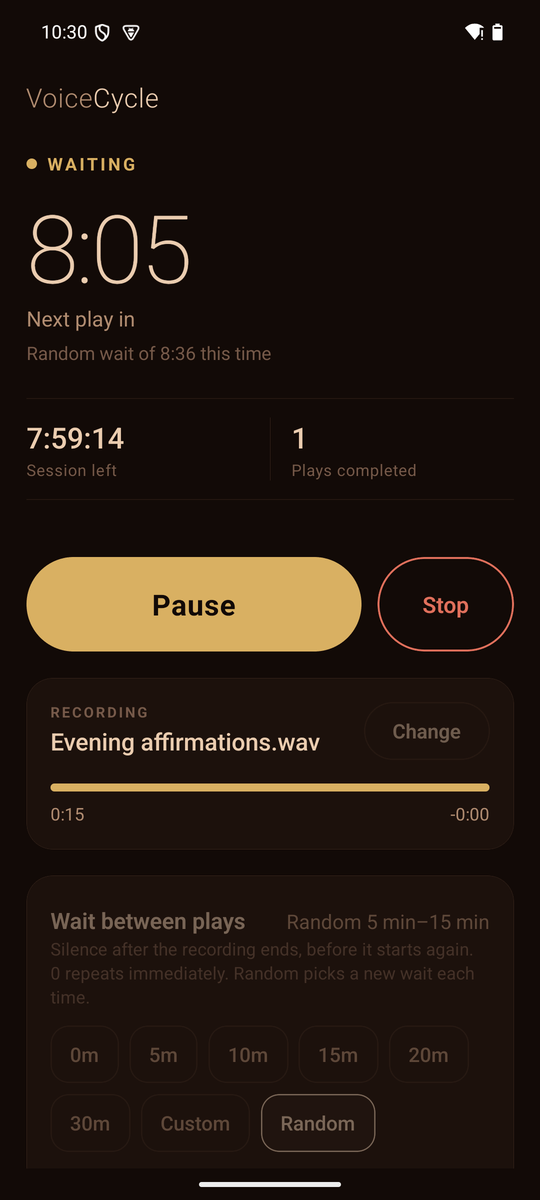
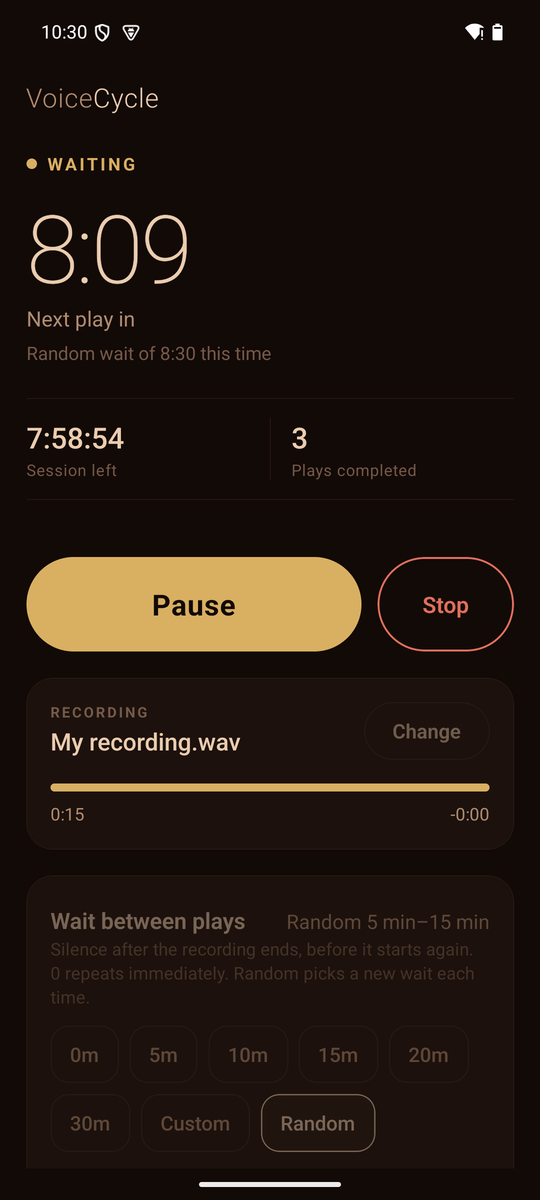
docs: neutral product wording and refreshed screenshots
- Remove overnight, night and sleep framing from README, docs, changelog,
  templates, workflow text, package metadata and code comments.
- Recapture screenshots with a neutral recording name and regenerate the
  social preview without the 'All night' tagline.

diff --git a/src/domain/report.ts b/src/domain/report.ts
@@ -8,8 +8,8 @@ const clockTime = (epochMs: number): string => {
 };
 
 /**
- * One-line summary of the previous session, so the user can check in the morning
- * whether it ran through the night. Null when there is nothing worth showing.
+ * One-line summary of the previous session, so the user can check whether it
+ * ran to the end. Null when there is nothing worth showing.
  */
 export function describeReport(report: SessionReport | null): { tone: 'info' | 'warning' | 'error'; text: string } | null {
   if (!report || report.status === 'running') return null;

diff --git a/modules/voicecycle-player/android/src/main/java/expo/modules/voicecycleplayer/VoiceCyclePlayerModule.kt b/modules/voicecycle-player/android/src/main/java/expo/modules/voicecycleplayer/VoiceCyclePlayerModule.kt
@@ -55,7 +55,7 @@ class VoiceCyclePlayerModule : Module() {
     OnStopObserving(SNAPSHOT_EVENT) { CycleStore.removeListener(listener) }
     OnDestroy { CycleStore.removeListener(listener) }
 
-    // The service ticks every second only while the UI is visible, saving battery overnight.
+    // The service ticks every second only while the UI is visible, saving battery during long sessions.
     OnActivityEntersForeground { setUiVisible(true) }
     OnActivityEntersBackground { setUiVisible(false) }
     OnActivityDestroys { setUiVisible(false) }

diff --git a/src/theme/themes.ts b/src/theme/themes.ts
@@ -23,8 +23,8 @@ export type Theme = {
 };
 
 /**
- * Three night palettes. Every one keeps body text at a comfortable contrast
- * without pure white, and Ember drops nearly all blue light for bedtime use.
+ * Three dark palettes. Every one keeps body text at a comfortable contrast
+ * without pure white. Ember is a warm, low-blue variant.
  */
 export const THEMES: Record<ThemeId, Theme> = {
   dusk: {

diff --git a/README.md b/README.md
@@ -4,9 +4,9 @@
 
 # VoiceCycle
 
-**Play. Wait. Repeat. All night.**
+**Play. Wait. Repeat.**
 
-An offline Android app that plays your own recording, waits, and plays it again for hours, even with the screen locked.
+An offline Android app that plays your own recording, waits, and plays it again, even with the screen locked.
 
 [![Android 7.0+](https://img.shields.io/badge/Android-7.0%2B-3DDC84?logo=android&logoColor=white)](#install)
 [![Expo SDK 57](https://img.shields.io/badge/Expo%20SDK-57-000020?logo=expo&logoColor=white)](https://docs.expo.dev/)
@@ -21,14 +21,14 @@ An offline Android app that plays your own recording, waits, and plays it again 
   <img src="docs/images/screen-playing.png" width="200" alt="Playing a recording" />
   <img src="docs/images/screen-waiting.png" width="200" alt="Random wait countdown" />
   <img src="docs/images/screen-settings.png" width="200" alt="Wait, plays in a row and session settings" />
-  <img src="docs/images/screen-ember.png" width="200" alt="Ember night theme" />
+  <img src="docs/images/screen-ember.png" width="200" alt="Ember theme" />
 </p>
 
 ## Why VoiceCycle
 
-You have a recording you want to hear again and again: affirmations, a language lesson, a lecture, a breathing exercise. Music players can loop it, but they can't leave a pause between plays. A JavaScript timer can, until Android puts the app to sleep and the next play never comes.
+You have a recording you want to hear again and again: a language lesson, a lecture, a practice drill, a breathing exercise. Music players can loop it, but they can't leave a pause between plays. A JavaScript timer can, until Android suspends the app in the background and the next play never comes.
 
-VoiceCycle runs the whole cycle in a native Android media service. It keeps its own clock, so the next play starts on time after a silent wait of minutes or hours, with the screen off and the phone in Doze.
+VoiceCycle runs the whole cycle in a native Android media service. It keeps its own clock, so the next play starts on time after a silent wait, with the screen off and the phone in Doze.
 
 ## Features
 
@@ -39,24 +39,24 @@ VoiceCycle runs the whole cycle in a native Android media service. It keeps its 
 - **Works with the screen locked.** Verified with the screen off and Android Doze forced on.
 - **Lock-screen controls.** Pause, resume and stop from the notification or lock screen. The notification counts down to the next play.
 - **Polite with calls and other apps.** Pauses for a phone call and resumes after it. Pauses when another app starts music or headphones are unplugged.
-- **Morning report.** Next morning the app tells you whether the session finished, and how many times the recording played.
-- **Made for the dark.** Three night themes: Dusk, Black for OLED screens, and Ember with almost no blue light.
+- **Session report.** When you come back, the app tells you whether the last session finished, and how many times the recording played.
+- **Dark themes.** Dusk, Black for OLED screens, and warm Ember.
 - **Remembers everything.** Your recording and settings are still there next time.
 - **Completely offline.** No account, no ads, no analytics, no network access.
 
-## How a night looks
+## How a session looks
 
-With a 12-minute recording, a random wait of 5–15 minutes, 1–3 plays in a row, and an 8-hour session:
+With a 12-minute recording, a random wait of 5–15 minutes, 1–3 plays in a row, and a 2-hour session:
 
 ```
-22:30  ▶ play 1 of 2
-22:42  ▶ play 2 of 2
-22:54  · wait 8:36 (random)
-23:03  ▶ play 1 of 1
-23:15  · wait 13:02 (random)
-23:28  ▶ play 1 of 3
-  ...
-06:30  ■ session time is up, fade out
+0:00  ▶ play 1 of 2
+0:12  ▶ play 2 of 2
+0:24  · wait 8:36 (random)
+0:33  ▶ play 1 of 1
+0:45  · wait 13:02 (random)
+0:58  ▶ play 1 of 3
+ ...
+2:00  ■ session time is up, fade out
 ```
 
 ## Install
@@ -76,7 +76,7 @@ Requires Android 7.0 or newer.
 4. Choose **Session length**.
 5. Tap **Start** and lock your phone.
 
-> **First night tip:** try a 2-hour session first and check the morning report. Then follow the battery settings below if your phone needs them.
+> **Tip:** start with a short session and check the session report afterwards. If it says the session was cut off, follow the battery settings below.
 
 ## Settings
 
@@ -85,18 +85,18 @@ Requires Android 7.0 or newer.
 | Wait between plays | 0, 5, 10, 15, 20, 30 min · Custom 0–240 min · Random min–max | Starts when the recording **ends**. Decimals allowed, so `0.5` is 30 seconds. 0 repeats immediately |
 | Plays in a row | 1×, 2×, 3× · Custom 1–50 · Random min–max | Random draws a new count for every round |
 | Session length | 1, 2, 4, 6, 8 h · Custom 1–1440 min | The app shows roughly how many plays fit |
-| Theme | Dusk, Black, Ember | Black suits OLED screens. Ember is warm and low in blue light |
+| Theme | Dusk, Black, Ember | Black suits OLED screens. Ember is a warm palette |
 
 **Pause** freezes everything: the recording, the wait countdown and the session timer. Settings are locked while a session runs and apply to the next one.
 
-## Overnight reliability
+## Background playback
 
-VoiceCycle does not ask for a battery-optimisation exemption. A foreground media service is normally enough. Some phone brands still close background apps. If the morning report says a session was **cut off**:
+VoiceCycle does not ask for a battery-optimisation exemption. A foreground media service is normally enough. Some phone brands still close background apps. If the session report says a session was **cut off**:
 
 1. Open **Settings > Apps > VoiceCycle > Battery** and choose **Unrestricted** (also called "Don't optimise" or "No restrictions").
 2. **Samsung:** remove VoiceCycle from *Sleeping apps* and *Deep sleeping apps* under Battery > Background usage limits.
 3. **Xiaomi, Oppo, Vivo, Huawei, OnePlus:** also allow *Autostart* and lock the app in Recents. See [dontkillmyapp.com](https://dontkillmyapp.com) for your model.
-4. Keep the phone charging overnight if you can. Battery Saver may restrict background work.
+4. Battery Saver may restrict background work. Charging the phone during long sessions helps.
 
 | Situation | What happens |
 |---|---|
@@ -131,7 +131,7 @@ npm run typecheck
 npm run lint
 ```
 
-CI runs all of them on every push. [docs/TESTING.md](docs/TESTING.md) has the emulator results, a 19-step manual test plan and an overnight checklist for real phones.
+CI runs all of them on every push. [docs/TESTING.md](docs/TESTING.md) has the emulator results, a 19-step manual test plan and a checklist for long sessions on real phones.
 
 ## How it works
 
@@ -143,7 +143,7 @@ flowchart LR
   Service -- "snapshots" --> UI
 ```
 
-The native service owns playback, the wait and the session timer. The interface only shows what the service reports, so reopening the app can never start a second session. [docs/ARCHITECTURE.md](docs/ARCHITECTURE.md) explains the design, the state machine and why simpler approaches fail overnight.
+The native service owns playback, the wait and the session timer. The interface only shows what the service reports, so reopening the app can never start a second session. [docs/ARCHITECTURE.md](docs/ARCHITECTURE.md) explains the design, the state machine and why simpler approaches fail in the background.
 
 ## Roadmap
 
@@ -156,7 +156,7 @@ iOS is not supported. The playback engine is Android-only.
 
 ## Contributing
 
-Bug reports from real phones help most, especially overnight results. Please read [CONTRIBUTING.md](CONTRIBUTING.md) and use the issue templates. Changes are listed in [CHANGELOG.md](CHANGELOG.md).
+Bug reports from real phones help most, especially from long sessions. Please read [CONTRIBUTING.md](CONTRIBUTING.md) and use the issue templates. Changes are listed in [CHANGELOG.md](CHANGELOG.md).
 
 ## License
 

diff --git a/docs/TESTING.md b/docs/TESTING.md
@@ -32,7 +32,7 @@ These were run on an Android 15 emulator with a 15-second test recording. Doze w
 | Force-kill during a session | Next launch reports the session was cut off after 1 play |
 | Cold restart | Recording and all settings restored |
 
-An emulator does not prove overnight reliability on a real phone. Use the checklist at the end of this page.
+An emulator does not prove long-session reliability on a real phone. Use the checklist at the end of this page.
 
 ## Manual test procedure
 
@@ -60,14 +60,14 @@ Use a short recording (20 to 60 seconds) and short settings so each test takes m
 | 18 | Plays in a row | Plays in a row 3, wait 0.25 | The recording plays 3 times back to back, then waits 15 seconds. Status shows "Play 2 of 3 in this round" |
 | 19 | Random plays in a row | Plays in a row Random, 1 to 3 | Rounds of 1, 2 or 3 plays in varying order |
 
-## Overnight checklist (physical phone)
+## Long-session checklist (physical phone)
 
-Before relying on VoiceCycle for a full night:
+Before relying on VoiceCycle for long sessions:
 
 - [ ] Install the **release** APK, not the development build.
 - [ ] Allow notifications when asked.
 - [ ] Apply the battery settings from the README for your phone brand.
-- [ ] First night: a 2-hour session with your real recording and settings, phone locked and unplugged.
-- [ ] In the morning, open the app. The note under the status says whether the last session finished, and after how many plays. Compare it with the estimate under Session length.
-- [ ] Repeat with the phone charging, and with Battery Saver on if you use it at night.
-- [ ] Only then rely on a full 8-hour session.
+- [ ] Run a 2-hour session with your real recording and settings, phone locked and unplugged.
+- [ ] Afterwards, open the app. The note under the status says whether the last session finished, and after how many plays. Compare it with the estimate under Session length.
+- [ ] Repeat with the phone charging, and with Battery Saver on if you normally use it.
+- [ ] Only then rely on sessions of several hours.

diff --git a/docs/ARCHITECTURE.md b/docs/ARCHITECTURE.md
@@ -113,7 +113,7 @@ Rules:
 | Phone restarts | The session ends and is not resumed |
 | Recording file missing (app data cleared) | The app asks you to select the recording again |
 
-Automatic recovery after a kill or reboot is deliberately not implemented. Audio starting by itself in the middle of the night would be surprising, and the behaviour could not be tested reliably across phone brands.
+Automatic recovery after a kill or reboot is deliberately not implemented. Audio starting by itself without user action would be surprising, and the behaviour could not be tested reliably across phone brands.
 
 ## Data and privacy
 
@@ -131,7 +131,7 @@ src/components/                 Presentational UI pieces
 src/hooks/                      usePlayer (native state), useSettings (persistence)
 src/domain/                     Pure logic: time, settings validation, display text, reports
 src/services/                   AsyncStorage settings, recording import
-src/theme/                      Night colour themes
+src/theme/                      Colour themes
 modules/voicecycle-player/      Local Expo module with the native Android player
 plugins/withReleaseSigning.js   Optional release signing from Gradle properties
 docs/                           Architecture, building and testing guides

diff --git a/CHANGELOG.md b/CHANGELOG.md
@@ -16,8 +16,8 @@ First public release.
 - Pause and resume that freeze the recording, the wait countdown and the session timer.
 - Lock-screen and notification controls, with a live countdown during the wait.
 - Automatic pause for calls, other audio apps and unplugged headphones. Calls resume by themselves.
-- Morning report of the last session: finished, stopped, failed, or cut off by Android.
-- Three night themes: Dusk, Black (OLED) and Ember (low blue light).
+- Report of the last session: finished, stopped, failed, or cut off by Android.
+- Three dark themes: Dusk, Black (OLED) and Ember.
 - Settings and the selected recording are remembered. Recordings are copied into private app storage.
 - Optional release signing from user-level Gradle properties.
 - CI for tests and builds, and a tag-triggered workflow that publishes the APK.

diff --git a/AGENTS.md b/AGENTS.md
@@ -1,4 +1,4 @@
-VoiceCycle is an offline Android app built with Expo SDK 57, React Native 0.86 and TypeScript. It plays a recording, waits a fixed or random time, and repeats for hours with the screen locked. Read `docs/ARCHITECTURE.md` before changing playback behaviour.
+VoiceCycle is an offline Android app built with Expo SDK 57, React Native 0.86 and TypeScript. It plays a recording, waits a fixed or random time, and repeats with the screen locked. Read `docs/ARCHITECTURE.md` before changing playback behaviour.
 
 ## Architecture rules
 

diff --git a/CONTRIBUTING.md b/CONTRIBUTING.md
@@ -1,6 +1,6 @@
 # Contributing to VoiceCycle
 
-Thanks for your interest. Bug reports from real phones are the most valuable contribution, because overnight reliability differs between brands and Android versions.
+Thanks for your interest. Bug reports from real phones are the most valuable contribution, because background reliability differs between brands and Android versions.
 
 ## Reporting a bug
 

diff --git a/.github/ISSUE_TEMPLATE/bug_report.md b/.github/ISSUE_TEMPLATE/bug_report.md
@@ -22,7 +22,7 @@ labels: bug
 - Battery Saver on? Phone charging?
 - Was the screen locked?
 
-**What the app said the next morning** (the note under the status, if any)
+**What the app reported afterwards** (the note under the status, if any)
 
 **Log** (optional, very helpful)
 

diff --git a/.github/ISSUE_TEMPLATE/feature_request.md b/.github/ISSUE_TEMPLATE/feature_request.md
@@ -6,6 +6,6 @@ labels: enhancement
 
 **What would you like to do?**
 
-**Why does it matter for you?** (for example, how you use VoiceCycle at night)
+**Why does it matter for you?** (for example, how you use VoiceCycle)
 
 **Anything you tried already?**
